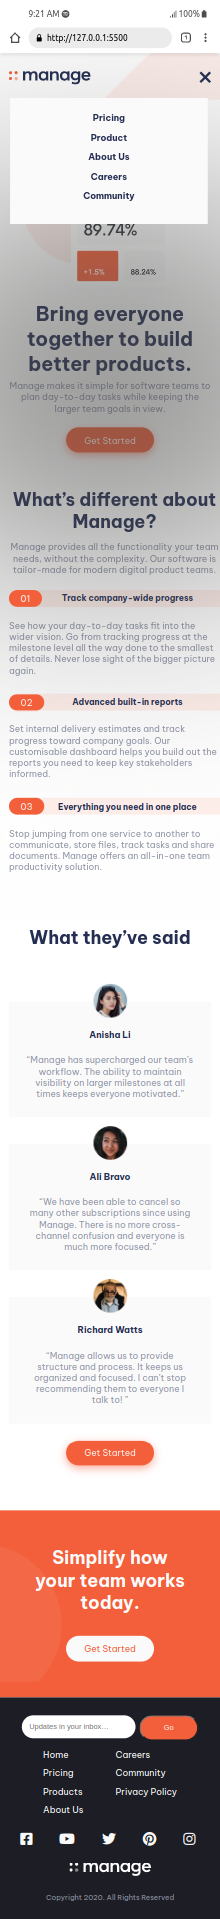
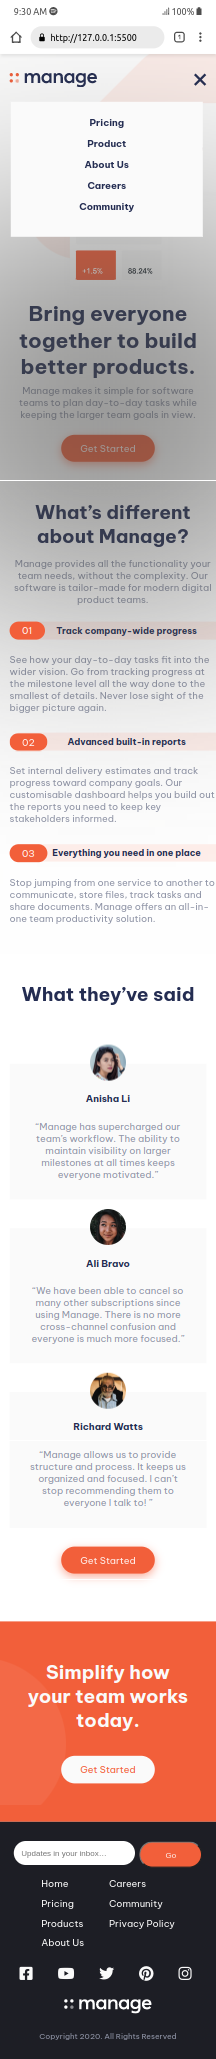
add close scrennshot

diff --git a/README.md b/README.md
@@ -1,6 +1,6 @@
 <img src="./Desktop.png">
 <br />
-<div style="display :flex;">
+<div style="display :flex; gap : 3rem;">
 <img src="./hamburger.png">
 <img src="./close.png">
 </div>
